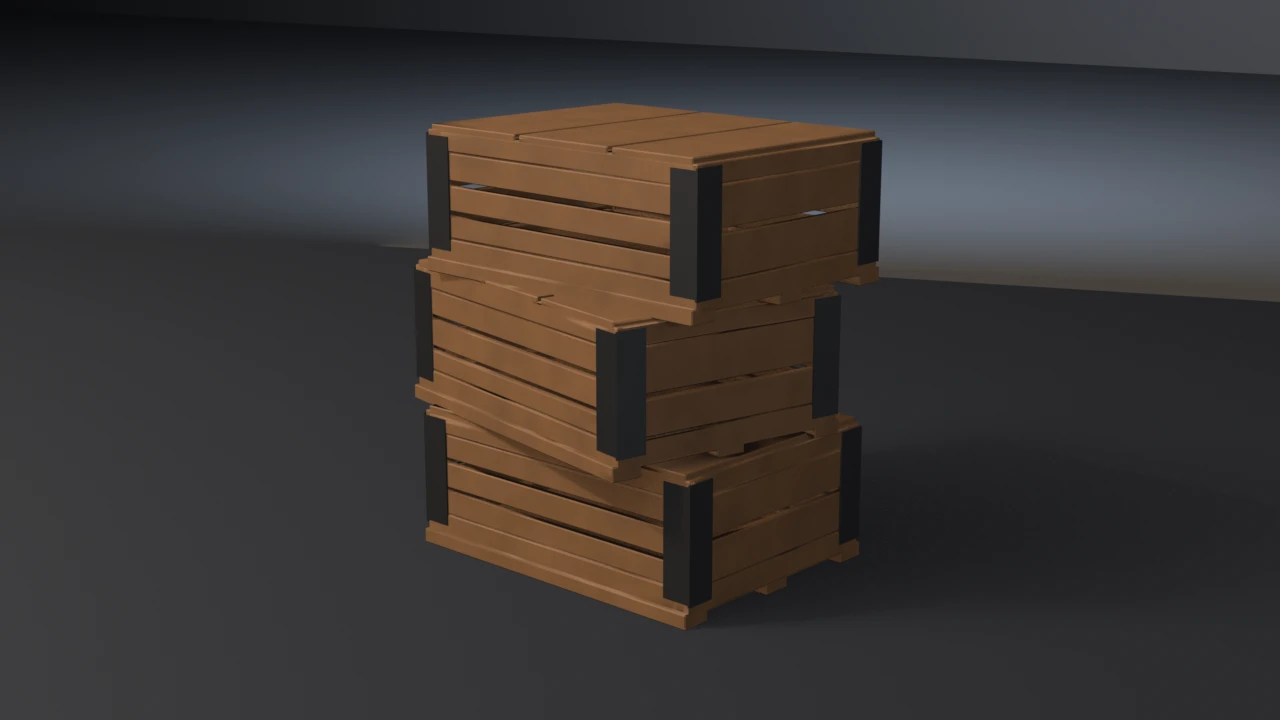
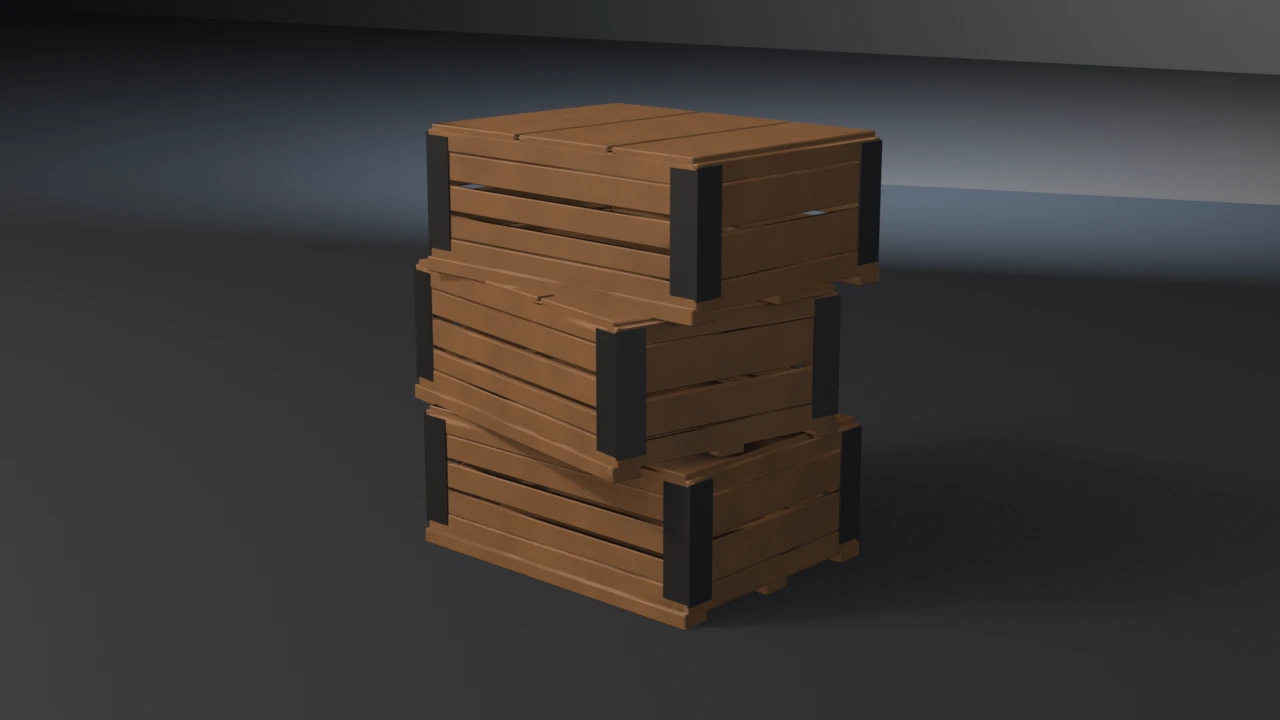
fix: warm the crate-stack wedge pool
Building the contact sheet against the pinned calibration set
(armature-bend, damped-track-aim, bmesh-gear) showed the wedge reading as a
cool grey band rather than the warm pool the house style calls for. Move it
closer to the backdrop, raise it to 560 W, and shift its colour to
(1.0, 0.72, 0.40).

Lighting only — no geometry, no budget, no assertion, no exit code changes.
Mean luminance 0.2185, inside the calibration band [0.1722, 0.3048]. Hero
and preview re-rendered; contact sheet committed under
docs/gallery/contact-sheets/.

Changed region(s): [[0.6875, 0.3361, 1.0, 0.4278], [0.3125, 0.3361, 0.3438, 0.3667]]

diff --git a/showcase/crate-stack/crate_stack.py b/showcase/crate-stack/crate_stack.py
@@ -1318,7 +1318,7 @@ def render_still(low, wood, tex, path, engine):
     light("Rim", (-1.5, 3.4, 2.6), 320.0, 3.0, (0.60, 0.78, 1.00), (-64, 0, 200))
     # Wedge sits between the subject and the wall so the pool lands on the
     # backdrop, not across the crates.
-    light("Wedge", (1.2, 2.7, 2.3), 380.0, 7.0, (1.0, 0.76, 0.50), (-92, 0, 196))
+    light("Wedge", (1.1, 4.3, 1.95), 560.0, 6.0, (1.0, 0.72, 0.40), (-94, 0, 194))
 
     cam_data = bpy.data.cameras.new("Cam")
     cam_data.lens = 52.0
